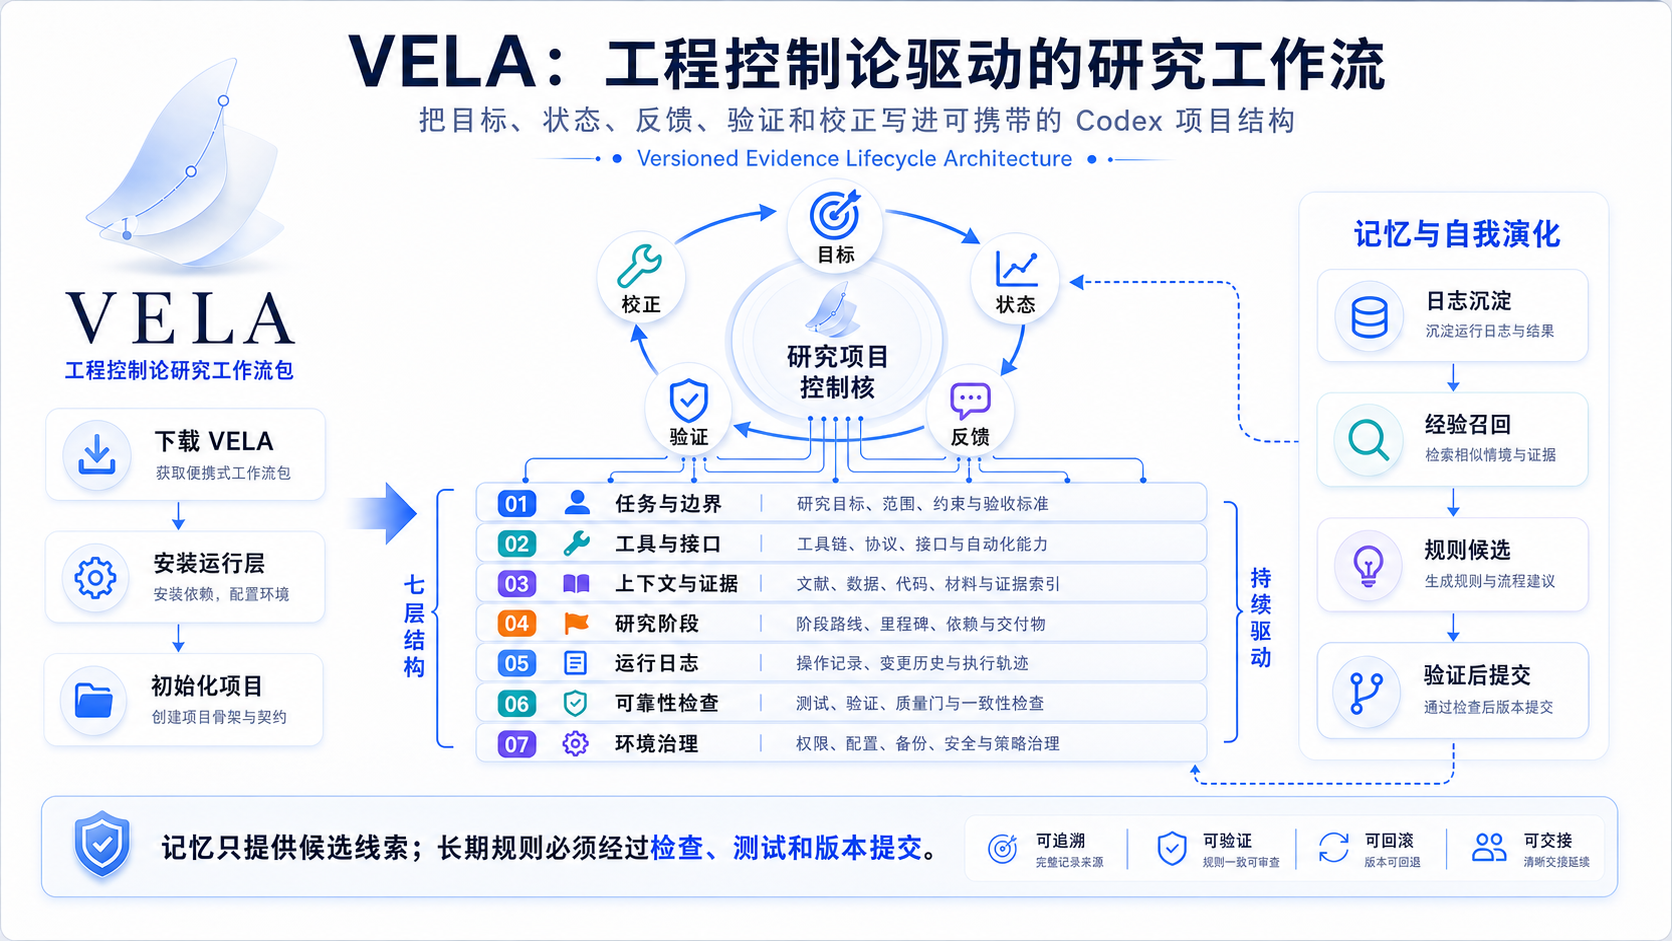
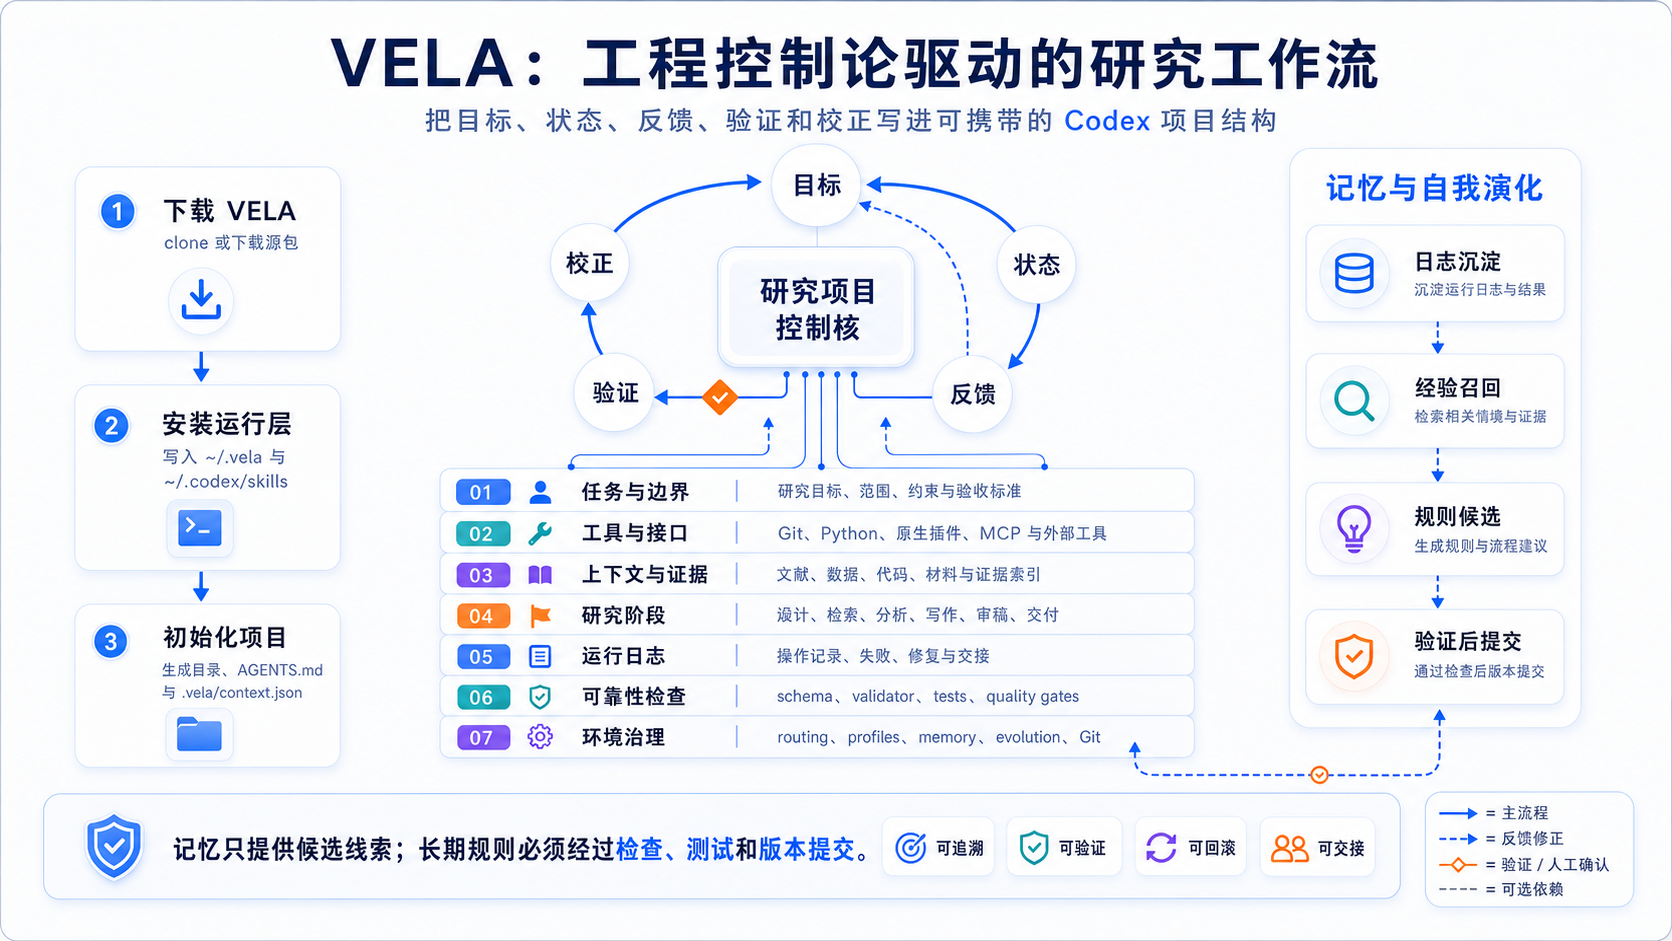
Refresh public VELA visuals and runtime boundaries

diff --git a/docs/zh/manual.html b/docs/zh/manual.html
@@ -232,13 +232,13 @@ vela doctor</pre></article>
         <div class="grid-3">
           <article class="card"><h3>42 个 active skills</h3><p>覆盖总控、文献与审稿、计算社科与分析、写作与导出、图表与演示、运行时 helper、知识沉淀与平台材料。</p></article>
           <article class="card"><h3>插件层</h3><p>原生 Browser、Chrome、Computer Use、GitHub、Superpowers、Zotero、Scite、Google Drive、Documents、Presentations、Spreadsheets 等按任务启用。</p></article>
-          <article class="card"><h3>MCP 层</h3><p>OpenAlex、Semantic Scholar、Google Scholar、paper-search、Chrome DevTools、social-platform、CodeGraph 等是传感器和接口，不是事实源；Zotero 走官方插件，不作为默认 MCP。</p></article>
+          <article class="card"><h3>MCP 层</h3><p>OpenAlex、Semantic Scholar、Google Scholar、paper-search、Chrome DevTools、CodeGraph 等是传感器和接口，不是事实源；普通网页、本机桌面和登录态浏览器优先用原生 Browser、Chrome 和 Computer Use；Zotero 走官方插件，不作为默认 MCP。</p></article>
         </div>
         <table>
           <tr><th>层</th><th>代表项</th><th>边界</th></tr>
           <tr><td>Skills</td><td><code>research-autopilot</code>、<code>citation-verifier</code>、<code>quant-analysis</code>、<code>manuscript-writing-studio</code>、<code>project-folder-hygiene</code></td><td>具体任务能力，必须受路线和质量门约束。</td></tr>
           <tr><td>插件</td><td><code>github</code>、<code>superpowers</code>、<code>hugging-face</code>、<code>scite</code>、<code>documents</code>、<code>presentations</code></td><td>增强层，不能替代 VELA 源规则、schema、validator 和 Git 提交。</td></tr>
-          <tr><td>MCP</td><td><code>openalex-mcp</code>、<code>semantic-scholar-mcp</code>、<code>google-scholar-mcp</code>、<code>paper-search-mcp</code>、<code>chrome-devtools</code>、<code>social-platform-mcp</code>、<code>codegraph</code></td><td>只在任务需要时打开；工具返回结果仍需进入证据或检查链。</td></tr>
+          <tr><td>MCP</td><td><code>openalex-mcp</code>、<code>semantic-scholar-mcp</code>、<code>google-scholar-mcp</code>、<code>paper-search-mcp</code>、<code>chrome-devtools</code>、<code>codegraph</code></td><td>只在任务需要时打开；工具返回结果仍需进入证据或检查链。平台账号、cookies 或登录态相关后端不随公开包发布。</td></tr>
         </table>
         <table>
           <tr><th>Skill 角色</th><th>说明</th><th>例子</th></tr>

diff --git a/docs/index.html b/docs/index.html
@@ -62,7 +62,7 @@
           <tr><td>Seven-layer structure</td><td>task boundary, tools/interfaces, context/evidence, research stage, runtime logs, reliability checks, environment governance.</td></tr>
           <tr><td>Skills</td><td>orchestration, literature/evidence, computational social science, writing/export, figures/presentation, runtime helpers, knowledge sync.</td></tr>
           <tr><td>Plugins</td><td>Native Browser, Chrome, Computer Use, GitHub, Superpowers, Zotero, Scite, Google Drive, Documents, Presentations, Spreadsheets, and related optional layers.</td></tr>
-          <tr><td>MCP</td><td>OpenAlex, Semantic Scholar, Google Scholar, paper-search, Chrome DevTools, social-platform, and CodeGraph are route-scoped helpers; native Browser/Chrome/Computer Use comes first.</td></tr>
+          <tr><td>MCP</td><td>OpenAlex, Semantic Scholar, Google Scholar, paper-search, Chrome DevTools, and CodeGraph are route-scoped helpers; native Browser/Chrome/Computer Use comes first for web and desktop interaction.</td></tr>
           <tr><td>Automation</td><td>doctor, runtime install, validate, privacy scan, envctl route/stack/memory/evolution checks.</td></tr>
           <tr><td>Memory governance</td><td>memory is a candidate signal; durable rules require schemas, validators, tests, and versioned commits.</td></tr>
         </table>

diff --git a/docs/zh/index.html b/docs/zh/index.html
@@ -62,7 +62,7 @@
           <tr><td>七层结构</td><td>任务与边界、工具与接口、上下文与证据、研究阶段、运行日志、可靠性检查、环境治理。</td></tr>
           <tr><td>Skills</td><td>总控、文献与审稿、计算社科与分析、写作与导出、图表与演示、运行时 helper、知识沉淀。</td></tr>
           <tr><td>插件</td><td>原生 Browser、Chrome、Computer Use、GitHub、Superpowers、Zotero、Scite、Google Drive、Documents、Presentations、Spreadsheets 等按任务启用。</td></tr>
-          <tr><td>MCP</td><td>OpenAlex、Semantic Scholar、Google Scholar、paper-search、Chrome DevTools、social-platform、CodeGraph 等按路线启用；普通浏览器和电脑操作默认优先使用原生插件。</td></tr>
+          <tr><td>MCP</td><td>OpenAlex、Semantic Scholar、Google Scholar、paper-search、Chrome DevTools、CodeGraph 等按路线启用；普通浏览器和电脑操作默认优先使用原生 Browser、Chrome 和 Computer Use。</td></tr>
           <tr><td>自动化</td><td>doctor、runtime install、validate、privacy scan、envctl route/stack/memory/evolution 检查。</td></tr>
           <tr><td>记忆治理</td><td>记忆只作为候选线索；长期规则必须经过 schema、validator、测试和版本提交。</td></tr>
         </table>

diff --git a/docs/manual.html b/docs/manual.html
@@ -121,7 +121,7 @@
       <section class="section grid-2">
         <article class="card">
           <h3>Skills, Plugins, MCP</h3>
-          <p>VELA routes combine active skills, optional Codex plugins, and MCP interfaces. Plugins and MCP servers are enhancement layers; schemas, validators, project files, and commits remain the governing layer.</p>
+          <p>VELA routes combine active skills, optional Codex plugins, and MCP interfaces. Plugins and MCP servers are enhancement layers; schemas, validators, project files, and commits remain the governing layer. Browser-visible and desktop-visible material starts with native Browser, Chrome, and Computer Use.</p>
         </article>
         <article class="card">
           <h3>Memory Boundary</h3>

diff --git a/tests/test_bootstrap_tools.py b/tests/test_bootstrap_tools.py
@@ -70,7 +70,8 @@ class BootstrapToolsTests(unittest.TestCase):
 
         optional = {tool["id"]: tool for tool in plan["tools"]}
 
-        self.assertNotIn("agentmemory", optional)
+        external_memory_service_id = "agent" + "memory"
+        self.assertNotIn(external_memory_service_id, optional)
 
         self.assertIn("codegraph", optional)
 

diff --git a/docs/manual.md b/docs/manual.md
@@ -214,7 +214,7 @@ Skill roles:
 
 Plugins are optional enhancement layers. Native Browser, Chrome, and Computer Use are the first choice for ordinary web pages, authenticated Chrome sessions, downloads, visible desktop apps, screenshots, and file dialogs. GitHub, Superpowers, Zotero, Scite, Google Drive, Documents, Presentations, Spreadsheets, and similar plugins may help when available. They do not replace schemas, validators, or source rules.
 
-MCP servers are sensors and interfaces. Common examples are OpenAlex, Semantic Scholar, Google Scholar, paper-search, Chrome DevTools, social-platform, and CodeGraph. Zotero is handled through the official plugin rather than a required MCP server. Browser MCP/CLI tools are reserved for debugging, reproducible automation, or route-specific capture after the native surfaces are insufficient. Their outputs must still pass project evidence and validation rules.
+MCP servers are sensors and interfaces. Common examples are OpenAlex, Semantic Scholar, Google Scholar, paper-search, Chrome DevTools, and CodeGraph. Zotero is handled through the official plugin rather than a required MCP server. Platform and browser-visible material starts with native Browser, Chrome, and Computer Use; Browser MCP/CLI tools are reserved for debugging or reproducible page-structure checks after the native surfaces are insufficient. Their outputs must still pass project evidence and validation rules.
 
 MCP startup policy:
 

diff --git a/README.md b/README.md
@@ -53,7 +53,7 @@ VELA is not a single script. It is a Codex-installable research workflow environ
 | Seven-layer structure | Task boundary, tools/interfaces, context/evidence, research stage, runtime logs, reliability checks, environment governance |
 | Skills | orchestration, literature, evidence, computational social science, writing/export, figures/presentation, runtime helpers, knowledge sync |
 | Plugins | Native Browser, Chrome, Computer Use, GitHub, Superpowers, Zotero, Scite, Google Drive, Documents, Presentations, Spreadsheets, and related optional layers |
-| MCP and adapters | OpenAlex, Semantic Scholar, Google Scholar, paper-search, Chrome DevTools, social-platform, and CodeGraph are route-scoped helpers; native Browser/Chrome/Computer Use comes first |
+| MCP and adapters | OpenAlex, Semantic Scholar, Google Scholar, paper-search, Chrome DevTools, and CodeGraph are route-scoped helpers; native Browser/Chrome/Computer Use comes first for web and desktop interaction |
 | Automation | doctor, runtime install, validate, privacy scan, envctl route/stack/memory/evolution checks |
 | Memory governance | memory is a candidate signal; durable rules require schemas, validators, tests, and versioned commits |
 

diff --git a/docs/index.md b/docs/index.md
@@ -47,7 +47,7 @@ Windows users can run `.\install.ps1 -BootstrapTools`. macOS users can run `sh .
 | Seven-layer structure | task boundary, tools/interfaces, context/evidence, research stage, runtime logs, reliability checks, environment governance |
 | Skills | orchestration, literature/evidence, computational social science, writing/export, figures/presentation, runtime helpers, knowledge sync |
 | Plugins | Native Browser, Chrome, Computer Use, GitHub, Superpowers, Zotero, Scite, Google Drive, Documents, Presentations, Spreadsheets, and related optional layers |
-| MCP | OpenAlex, Semantic Scholar, Google Scholar, paper-search, Chrome DevTools, social-platform, and CodeGraph are route-scoped helpers; native Browser/Chrome/Computer Use comes first |
+| MCP | OpenAlex, Semantic Scholar, Google Scholar, paper-search, Chrome DevTools, and CodeGraph are route-scoped helpers; native Browser/Chrome/Computer Use comes first for web and desktop interaction |
 | Automation | doctor, runtime install, validate, privacy scan, envctl route/stack/memory/evolution checks |
 | Memory governance | memory is a candidate signal; durable rules require schemas, validators, tests, and versioned commits |
 
